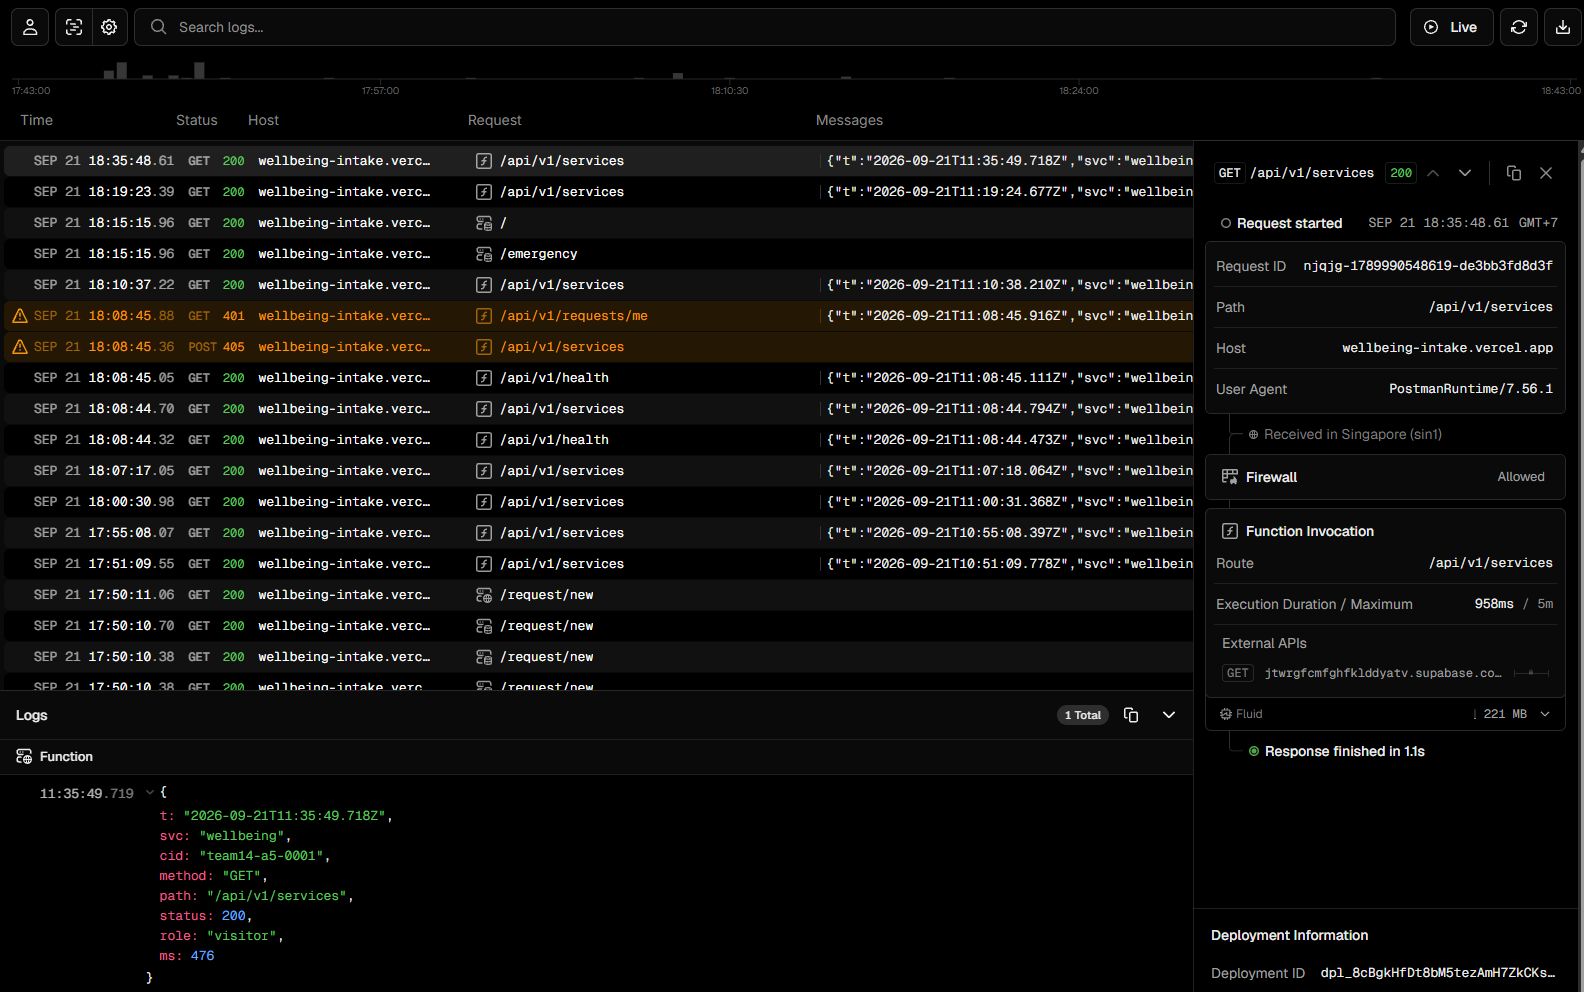
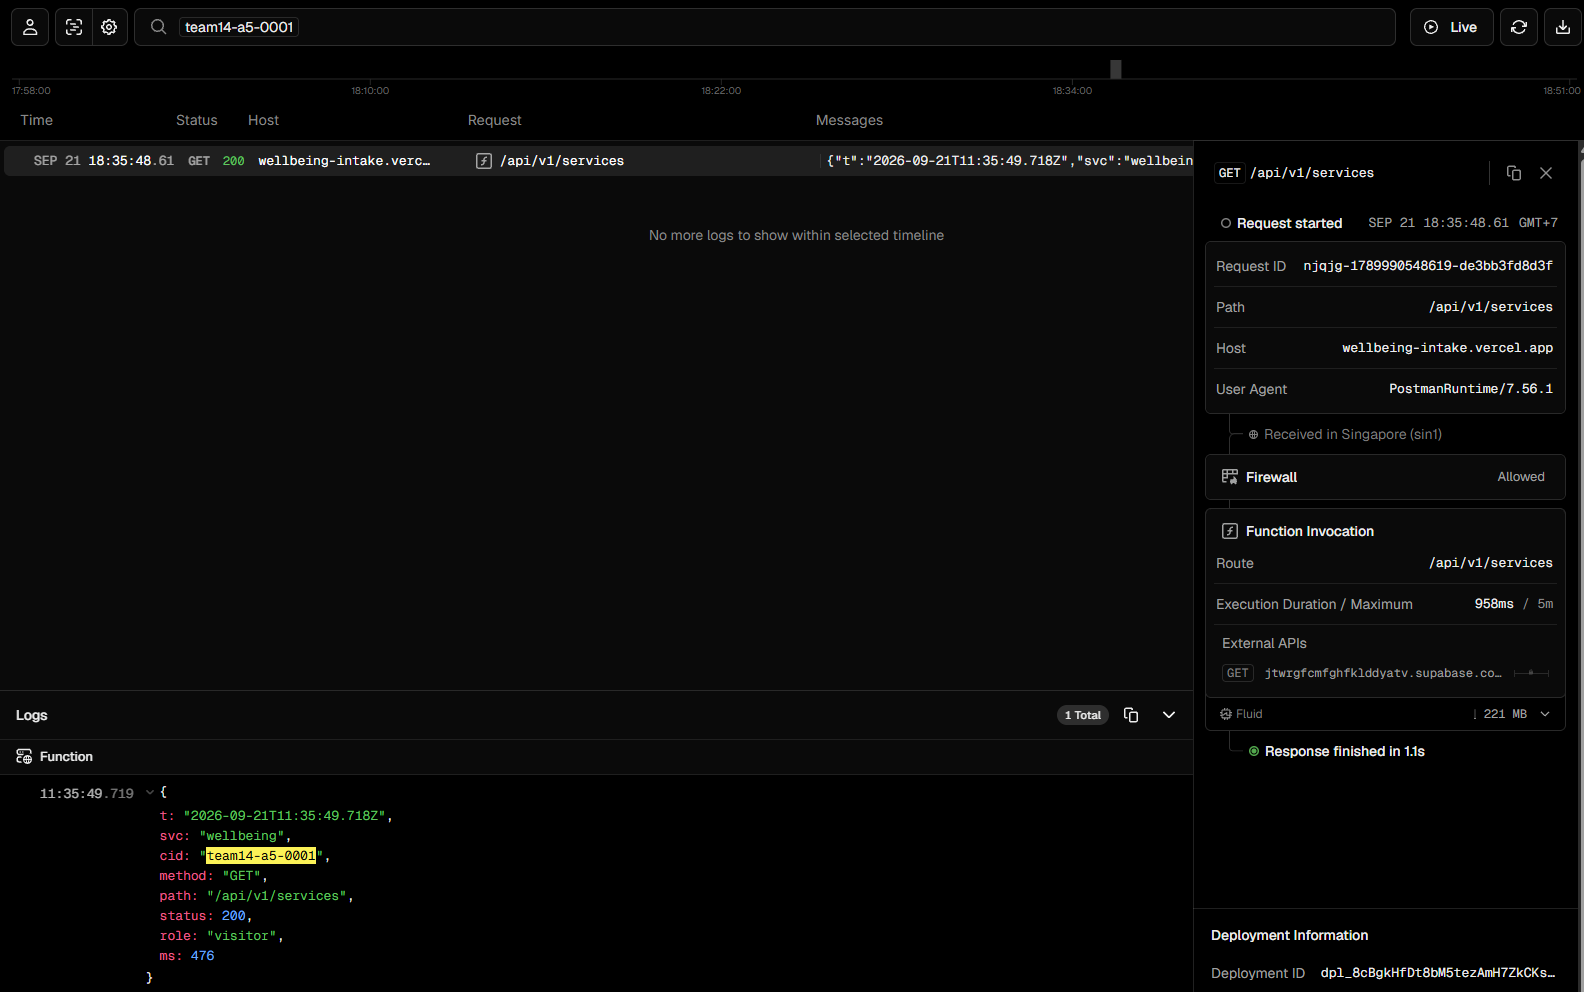
A5 section 2: use the filtered log screenshot for team14-a5-0001; note 0002/0003 were not sent

diff --git a/docs/A5-Team16-Integration-Evidence.md b/docs/A5-Team16-Integration-Evidence.md
@@ -86,6 +86,8 @@ Endpoint: `GET /api/v1/services` — public, returns only the seeded service cat
 
 ![Vercel log: GET /api/v1/services, status 200, cid team14-a5-0001, User-Agent PostmanRuntime](evidence/2-provider-log-team14-a5-0001.png)
 
+The log search for `team14-a5-0001` returns exactly one request. Team 14's optional labels `team14-a5-0002` (health check) and `team14-a5-0003` (recovery call) were searched for in the same hour and returned no request: they were not sent, so nothing is claimed for them.
+
 **Partner confirmation** (Team 14's own screenshot of the same request — their request, the `200` response, and `X-Correlation-Id: team14-a5-0001` echoed back): `TODO ![partner-confirmation](evidence/2-partner-confirmation.png)`
 
 ### 2b. Their deployed backend calling us — not just a manual test
